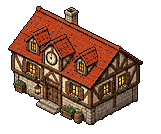
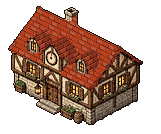
fix: GPT red roofs re-drawn per course to the town's tiles; treasury slate to the reference light
The red roofs get the slate's course re-draw (5 px rows, light top row, dark
bottom line, staggered 6 px tiles with short joints, the roof's own colour per
face) in place of the global contrast boost, with the course contrast fitted
to the reference roofs' edge contrast and the value and saturation gains to
their luminance and saturation (tavern, townhouse_a, cottage_red): all four
roofs within 0.013 L, 0.026 S, 0.004 edge. The slate's saturation is fitted in
damped steps, bringing the treasury slate to 0.279 L (reference 0.288).

diff --git a/tools/dev/ref_convert/style_match.py b/tools/dev/ref_convert/style_match.py
@@ -69,20 +69,26 @@ FAMILY_OK = {ss.GREY: (ss.GREY,), ss.RED: (ss.RED,), ss.TIMBER: (ss.TIMBER, ss.C
              ss.GREEN: (ss.GREEN, ss.TIMBER, ss.GREY), ss.BLUE: (ss.BLUE, ss.GREY)}
 DULL = 0.32             # swatches below this saturation are candidates for a grey px
 CLEAR_V = 0.2           # a px darker than this has no clear material: any swatch
-SLATE_P = 4             # a slate course's height (px): townhouse_b's
-SLATE_LIGHT, SLATE_DARK = 1.16, 0.72    # a course's top row and bottom line against its tone
-SLATE_MIN = 400         # a slate piece smaller than this (px) is a banner or a shield, not a roof
-SLATE_HOLE = 120        # slate_mask(): a mottle up to this size inside the slate is slate
-SLATE_CLOSE = 2         # slate_mask()'s closing radius
+# Roof courses per material (courses()): course height p (px), its top row and bottom line against the tone, the
+# share of the painting's light kept, tiles (joint length, its darkness, a fixed tone step) and roof_mask()'s mottles
+# (the materials a small piece inside the roof may be, up to `hole` px). Slate: townhouse_b's 4 px courses. Red
+# tiles: townhouse_a's and the tavern's 5 px rows of flat tiles with short joints.
+COURSE = {ss.BLUE: dict(p=4, light=1.16, dark=0.72, keep=0.5, joint=0, joint_dark=1.0, var=0.0,
+                        mottle=(ss.GREY,), hole=120),
+          ss.RED: dict(p=5, light=1.12, dark=0.7, keep=0.3, joint=6, joint_dark=0.8, var=0.05,
+                       mottle=(ss.GREY, ss.TIMBER, ss.GREEN), hole=40)}
+SLATE_MIN = 400         # a roof piece smaller than this (px) is a banner, a shield or a flower box, not a roof
+SLATE_CLOSE = 2         # roof_mask()'s closing radius
+TILE_GAIN = (0.2, 3.0)  # the red courses' contrast bounds (tune() fits it to the reference roofs' edge contrast)
 SLATE_SMOOTH = 5        # the light across a slate face: its luminance smoothed over this radius
-SLATE_KEEP = 0.5        # and kept at this share (the rest is the face's mean colour: no brown blotches)
+
 # Reference roofs per material for the roof shade (tune()): their roof px's mean luminance and saturation
 ROOF_REFS = {ss.RED: ["tavern", "townhouse_a", "cottage_red"],
              ss.BLUE: ["townhouse_b", "cottage_blue", "barn", "carpenter"]}
 ROOF_TOL = 0.02         # tune() shades a roof until its luminance is within this of the reference
-ROOF_ROUNDS = 4
-ROOF_DETAIL = 2.0       # roof_shade(): a brightened red roof's extra local contrast, per unit of value gain
-ROOF_GAIN = (0.6, 1.8)   # the roof shade's gain bounds
+ROOF_ROUNDS = 8
+SLATE_S_TOL = 0.05      # the slate's saturation is fitted only to within this
+ROOF_GAIN = (0.6, 2.2)   # the roof shade's gain bounds
 ROOF_MIN = 300          # a roof material on fewer px is left alone
 ROOF_NEAR = 0.1         # nor one whose luminance is further than this from the reference roofs': it is not a roof
 SLATE_R, SLATE_VOTE = 3, 3      # slate_planes(): the smoothing radius, then the vote's
@@ -380,19 +386,12 @@ def roof_shade(a, fam, gains):
         m = (fam == k) & (a[..., 3] > 0)
         rgb = np.clip(a[..., :3][m] * lg, 0, 255)
         out[..., :3][m] = set_hsv(rgb, np.full(len(rgb), sg))
-        if k == ss.RED and lg > 1.0:
-            # a brightened roof keeps its tile lines: the lock's few bright reds would merge them, so its local
-            # contrast (against the 3 x 3 mean of the roof) grows with the gain
-            L = ss.luma(out[..., :3])
-            loc = _mean_in(L, m, 1)
-            d = ROOF_DETAIL * (lg - 1.0)
-            kk = np.clip(L + d * (L - loc), 0, None) / np.maximum(L, 1e-3)
-            out[..., :3][m] = np.clip(out[..., :3][m] * kk[m][:, None], 0, 255)
     return out
 
 
 def roof_stats(img):
-    """{material: (mean luminance, mean saturation, px)} of an output's roof px (red, slate; not the outline)."""
+    """{material: (mean luminance, mean saturation, px, edge contrast)} of an output's roof px (red, slate; not the
+    outline). Edge contrast as style_stats': mean |delta luminance| to the right neighbour, both roof px."""
     a = img.astype(float)
     al = a[..., 3] > 0
     f, _ = materials(a)
@@ -402,7 +401,10 @@ def roof_stats(img):
         m = (f == k) & ~ring
         if m.any():
             rgb = a[..., :3][m]
-            out[k] = (float(ss.luma(rgb).mean()), float(ss.hsv(rgb)[1].mean()), int(m.sum()))
+            L = ss.luma(a[..., :3])
+            pair = m[:, :-1] & m[:, 1:]
+            edge = float(np.abs(L[:, 1:] - L[:, :-1])[pair].mean()) if pair.any() else 0.0
+            out[k] = (float(ss.luma(rgb).mean()), float(ss.hsv(rgb)[1].mean()), int(m.sum()), edge)
     return out
 
 
@@ -410,13 +412,14 @@ _ROOF_REF = None
 
 
 def roof_refs():
-    """{material: (luminance, saturation)}: the reference roofs' (ROOF_REFS), each set weighted alike."""
+    """{material: (luminance, saturation, edge contrast)}: the reference roofs' (ROOF_REFS), each set weighted
+    alike."""
     global _ROOF_REF
     if _ROOF_REF is None:
         _ROOF_REF = {}
         for k, names in ROOF_REFS.items():
             st = [roof_stats(ss.load(n))[k] for n in names]
-            _ROOF_REF[k] = (float(np.mean([q[0] for q in st])), float(np.mean([q[1] for q in st])))
+            _ROOF_REF[k] = tuple(float(np.mean([q[i] for q in st])) for i in (0, 1, 3))
     return _ROOF_REF
 
 
@@ -439,24 +442,37 @@ def slate_planes(L, m):
     return np.where(vote >= 0, 1, -1)
 
 
-def slate(a, m, ref=None, fam=None):
-    """The slate (mask m) re-drawn as courses, as the in-game slate roofs are: the tone is the slate's own, smoothed
-    over SLATE_SMOOTH px within its face (the mottling goes, the light across the face stays), and each SLATE_P px
-    course has a light top row and a dark bottom line, the course lines parallel to the face's eave (slate_planes()).
-    `ref`: the same canvas's intact at the same stage; a damaged still keeps its soot and char as the ratio of its
-    luminance to the intact's."""
+def courses(a, m, mat, contrast=1.0, ref=None, fam=None):
+    """A roof (mask m, material mat) re-drawn as courses, as the in-game roofs are (COURSE[mat]): the tone is the
+    roof's own colour per face, the painting's light across the face kept at `keep` (its mottling and speckle go);
+    each course of `p` px has a light top row and a dark bottom line, parallel to the face's eave (slate_planes());
+    tiles (`joint` px long, staggered by half a tile per course) get a dark joint in the course's middle rows and a
+    fixed tone step of up to `var`. `contrast` scales every step (tune() fits it to the reference roofs' edge
+    contrast). `ref`: the same canvas's intact at the same stage; a damaged still keeps its soot and char as the
+    ratio of its luminance to the intact's."""
     if not m.any():
         return a
+    c = COURSE[mat]
     out = a.copy()
     L = ss.luma(a[..., :3])
     pl = slate_planes(L if ref is None else ss.luma(ref[..., :3]), m)
     h, w = m.shape
     ys, xs = np.mgrid[0:h, 0:w]
     v = np.where(pl > 0, ys - xs // 2, ys + (xs + 1) // 2)
-    phase = v % SLATE_P
+    P = c["p"]
+    phase = v % P
+    row = v // P
     shade = np.ones((h, w))
-    shade[phase == 0] = SLATE_LIGHT
-    shade[phase == SLATE_P - 1] = SLATE_DARK
+    shade[phase == 0] = 1 + (c["light"] - 1) * contrast
+    shade[phase == P - 1] = 1 - (1 - c["dark"]) * contrast
+    if c["joint"]:
+        J = c["joint"]
+        u = xs + (row % 2) * (J // 2)
+        tile = u // J
+        mid = (phase > 0) & (phase < P - 1)
+        shade[mid & (u % J == 0)] *= 1 - (1 - c["joint_dark"]) * contrast
+        step = (((tile * 7 + row * 13) % 5) - 2) / 2.0         # a fixed per-tile step in -1..1, no noise field
+        shade *= 1 + c["var"] * contrast * step
     src = a if ref is None else ref
     Ls = ss.luma(src[..., :3])
     tone = np.zeros((h, w, 3))
@@ -464,12 +480,11 @@ def slate(a, m, ref=None, fam=None):
         face = m & (pl == sgn)
         if not face.any():
             continue
-        # the face's own colour, its light across the face kept at SLATE_KEEP of the painting's (smoothed)
-        pure = face if fam is None or not (face & (fam == ss.BLUE)).any() else face & (fam == ss.BLUE)
-        col = src[..., :3][pure].mean(0)       # the slate's own px, not the painting's grey and brown mottles
+        pure = face if fam is None or not (face & (fam == mat)).any() else face & (fam == mat)
+        col = src[..., :3][pure].mean(0)       # the roof's own px, not the painting's mottles and moss
         lf = max(float(ss.luma(col[None])[0]), 1e-3)
         var = _mean_in(Ls, face, SLATE_SMOOTH) / lf
-        tone[face] = col[None, :] * (1 + SLATE_KEEP * (var[face] - 1))[:, None]
+        tone[face] = col[None, :] * (1 + c["keep"] * (var[face] - 1))[:, None]
     rgb = tone * shade[..., None]
     if ref is not None:
         Lr = ss.luma(ref[..., :3])
@@ -490,16 +505,17 @@ def _prep(a, knobs):
     return a, fam, clear, a0
 
 
-def slate_mask(a, fam):
-    """The slate a still re-draws: slate material closed over SLATE_CLOSE px (the painting's grey and dark mottles
-    inside it are slate too), opaque, not the outline. A damaged still's holes and char keep their darkness through
-    slate()'s ratio to the intact."""
+def roof_mask(a, fam, mat):
+    """The roof of material `mat` a still re-draws: that material closed over SLATE_CLOSE px (the painting's mottles
+    and moss inside it are roof too), opaque, not the outline. A damaged still's holes and char keep their darkness
+    through courses()'s ratio to the intact."""
+    c = COURSE[mat]
     al = a[..., 3] > 0
     r = SLATE_CLOSE
     # the roofs' slate: big pieces of slate material only (a banner or a shield under the eave is a small one, and
     # the closing below must not reach it from the roof)
     blue = np.zeros_like(al)
-    for pts in _components(al & (fam == ss.BLUE), conn8=True):
+    for pts in _components(al & (fam == mat), conn8=True):
         if len(pts) >= SLATE_MIN:
             ys, xs = zip(*pts)
             blue[list(ys), list(xs)] = True
@@ -508,16 +524,16 @@ def slate_mask(a, fam):
     closed = _box((al & ~grown).astype(float), r) < 0.5
     ring = outline_ring(al)
     m = al & ((grown & closed) | blue) & ~ring
-    # the painting's larger mottles: a non-slate piece (not the outline) under SLATE_HOLE px, nearly all of whose
+    # the painting's larger mottles: a non-roof piece (not the outline) under its `hole` px, nearly all of whose
     # neighbours are slate, is slate (a wall or a gable below the roof is one big piece and stays)
     for pts in _components(al & ~m & ~ring, conn8=False):
-        if len(pts) >= SLATE_HOLE:
+        if len(pts) >= c["hole"]:
             continue
         hole = np.zeros_like(m)
         ys, xs = zip(*pts)
         hole[list(ys), list(xs)] = True
-        if (fam[hole] == ss.GREY).mean() < 0.5:
-            continue                    # a mottle is grey: a chimney, a dormer or a gable's timbers stay
+        if not np.isin(fam[hole], c["mottle"]).mean() >= 0.5:
+            continue                    # only the painting's mottles: a chimney, a dormer or a gable's timbers stay
         if a[..., :3][hole].max(-1).mean() < CLEAR_V * 255:
             continue                    # a damaged roof's hole: char, not slate
         rim = (_box(hole.astype(float), 1) > 0) & ~hole & al & ~ring
@@ -541,16 +557,20 @@ def match(a, knobs, light=False, glow=True, ref=None):
     lit = np.zeros(al.shape, bool)
     if not light:
         a, fam, clear, a0 = _prep(a, knobs)
-        if knobs.get("slate", True):
-            sm = slate_mask(a, fam)
+        if knobs.get("courses", True):
+            r = rfam = None
             if ref is not None:
                 r, rfam, _, _ = _prep(ref, knobs)
-                sm &= slate_mask(r, rfam)
-                a = slate(a, sm, r, rfam)
-            else:
-                a = slate(a, sm, fam=fam)
-            fam = np.where(sm, ss.BLUE, fam)        # the re-drawn slate locks to the slate blues, mottles too
-            clear = clear | (sm & (a[..., :3].max(-1) >= CLEAR_V * 255))   # a damaged slate's char stays char
+            fam0 = fam
+            for mat in COURSE:
+                sm = roof_mask(a, fam0, mat)
+                if r is not None:
+                    sm &= roof_mask(r, rfam, mat)
+                if sm.sum() < SLATE_MIN:
+                    continue
+                a = courses(a, sm, mat, knobs.get("tile", {}).get(mat, 1.0), r, rfam if r is not None else fam0)
+                fam = np.where(sm, mat, fam)    # the re-drawn roof locks to its own material, mottles too
+                clear = clear | (sm & (a[..., :3].max(-1) >= CLEAR_V * 255))   # a damaged roof's char stays char
         if glow:
             # never on a roof: its eave highlights next to a dark tile line pass the finder's test
             # read before the lift and the contrast (a lifted bench or weapon rack passes for lamp light)
@@ -578,14 +598,15 @@ def score(img):
     return abs(st["edge"] - EDGE_TARGET) + 2.0 * max(0.0, lo - st["lum"], st["lum"] - hi), st
 
 
-def _grid(intact, fac, glob, roof):
+def _grid(intact, fac, glob, roof, tile=None):
     """The (lift, amount) grid with the saturation rounds (see tune()): (knobs, stats, image)."""
     mat_ref = refs()[1]
+    tile = tile or {}
     for _ in range(SAT_ROUNDS):
         best = None
         for lift in LIFTS:
             for amount in AMOUNTS:
-                k = {"fac": fac, "glob": glob, "lift": lift, "amount": amount, "roof": roof}
+                k = {"fac": fac, "glob": glob, "lift": lift, "amount": amount, "roof": roof, "tile": tile}
                 img, _ = match(intact, k)
                 c, st = score(img)
                 c += 0.01 * abs(lift - 1.0) + 0.002 * amount
@@ -602,38 +623,49 @@ def _grid(intact, fac, glob, roof):
 
 
 def _roofs(intact, k, img, rounds):
-    """Shade each roof material toward the reference roofs' luminance and saturation (roof_refs()), measured on the
-    output, for up to `rounds` rounds: (knobs, image)."""
+    """Shade each roof material toward the reference roofs' luminance and saturation, and fit the red
+    courses' contrast to their roof edge contrast (roof_refs(); the slate keeps its own), measured on the output, up to
+    `rounds` rounds: (knobs, image). Within ROOF_TOL / 2 of each it stops."""
     ref = roof_refs()
     roof = dict(k["roof"])
+    tile = dict(k.get("tile", {}))
     for _ in range(rounds):
         rs = roof_stats(img)
         moved = False
-        for m, (lr, sr) in ref.items():
+        for m, (lr, sr, er) in ref.items():
             if m not in rs or rs[m][2] < ROOF_MIN or (m not in roof and abs(rs[m][0] - lr) > ROOF_NEAR):
                 continue                # no roof of that material (the armoury's reds are its dark shed timber)
-            L, S, _ = rs[m]
-            if abs(L - lr) <= ROOF_TOL * 0.5 and abs(S - sr) <= 2 * ROOF_TOL:
+            L, S, _, E = rs[m]
+            # the slate's saturation only toward SLATE_S_TOL of the reference, in half steps: the palette's few slate
+            # blues make its response coarse, and a saturation gain darkens (set_hsv keeps the value, not luminance)
+            s_tol = ROOF_TOL * 0.5 if m == ss.RED else SLATE_S_TOL
+            fit_s = abs(S - sr) > s_tol
+            fit_e = m == ss.RED and abs(E - er) > ROOF_TOL * 0.25
+            if abs(L - lr) <= ROOF_TOL * 0.5 and not fit_s and not fit_e:
                 continue
+            damp = 1.0 if m == ss.RED else 0.5
             lg, sg = roof.get(m, (1.0, 1.0))
-            roof[m] = (float(np.clip(lg * lr / max(L, 1e-3), *ROOF_GAIN)), float(np.clip(sg * sr / max(S, 1e-3), *ROOF_GAIN)))
+            roof[m] = (float(np.clip(lg * (lr / max(L, 1e-3)) ** damp, *ROOF_GAIN)),
+                       float(np.clip(sg * (sr / max(S, 1e-3)) ** damp, *ROOF_GAIN)) if fit_s else sg)
+            if fit_e:
+                tile[m] = float(np.clip(tile.get(m, 1.0) * er / max(E, 1e-3), *TILE_GAIN))
             moved = True
         if not moved:
             break
-        k = dict(k, roof=dict(roof))
+        k = dict(k, roof=dict(roof), tile=dict(tile))
         img, _ = match(intact, k)
     return k, img
 
 
 def tune(intact):
     """The set's knobs: saturation factors from the intact, then (lift, amount) off the fixed grid that lands its
-    edge contrast nearest EDGE_TARGET with its mean luminance in LUM_BAND (ties: the smaller change), then the roof
-    shade toward the reference roofs; the grid again with that shade, and the shade again."""
+    edge contrast nearest EDGE_TARGET with its mean luminance in LUM_BAND (ties: the smaller change), then the roofs
+    (shade and course contrast) toward the reference roofs; the grid again with them, and the roofs again."""
     fac, glob = sat_factors(intact)
     k, st, img = _grid(intact, fac, glob, {})
     k, img = _roofs(intact, k, img, ROOF_ROUNDS)
-    k, st, img = _grid(intact, fac, k["glob"], k["roof"])
-    k, img = _roofs(intact, k, img, 2)
+    k, st, img = _grid(intact, fac, k["glob"], k["roof"], k.get("tile"))
+    k, img = _roofs(intact, k, img, ROOF_ROUNDS)
     return k, ss.stats(img)
 
 

diff --git a/tools/dev/ref_convert/gpt_convert.py b/tools/dev/ref_convert/gpt_convert.py
@@ -509,7 +509,8 @@ def make(name, out_dir, debug=None):
         for f in (gm, d / "glow_mask.png.import"):
             if f.exists():
                 f.unlink()
-    roof = " ".join("%s x%.2f/x%.2f" % (("red", "slate")[m == style_match.ss.BLUE], g[0], g[1])
+    roof = " ".join("%s x%.2f/x%.2f c%.2f" % (("red", "slate")[m == style_match.ss.BLUE], g[0], g[1],
+                                             knobs.get("tile", {}).get(m, 1.0))
                     for m, g in sorted(knobs["roof"].items()))
     print("  style match: lift %.2f amount %.2f sat x%.2f roof %s; edge %.3f lum %.3f outline %.3f colours %d "
           "sat %.3f; %d lit px" % (knobs["lift"], knobs["amount"], knobs["glob"], roof or "-", st_after["edge"],
